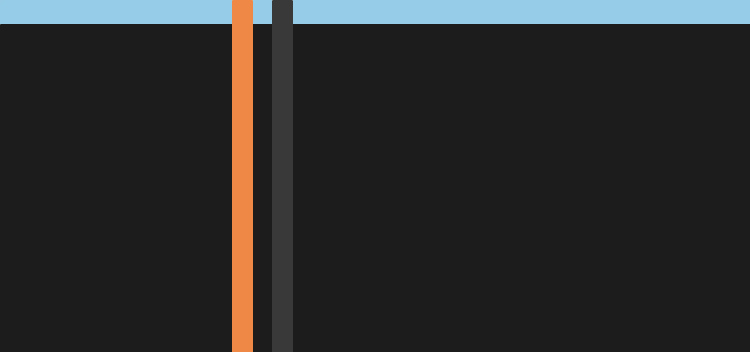
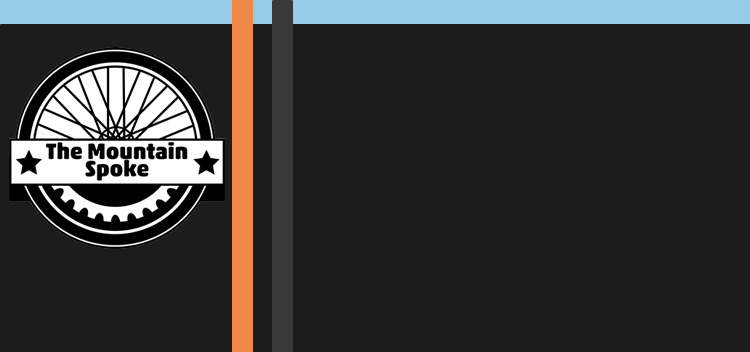
edits
lots of editing

Changed region(s): [[0.0, 0.125, 0.3067, 0.7188]]

diff --git a/home.html b/home.html
@@ -14,13 +14,19 @@
     <body>
         <header class="logoheader">
             <img src="images/LARGE-banner.jpg" alt="headerbanner"
-                 sizes="(max-width: 600px) 580px,
-                        (max-width: 800px) 750px,
-                        1200px"
                  srcset="images/SMALL-banner.jpg 580w,
                          images/MEDIUM-banner.jpg 750w,
-                         images/LARGE-banner.jpg 1000w"/>
-            <!-- <img id="logoHead" src="images/final-logo-01.png" alt="logo" /> -->
+                         images/LARGE-banner.jpg 1000w"
+                 sizes="(max-width: 580px) 540px,
+                        (max-width: 900px) 710px,
+                        1000px" />
+           <!-- <img id="logoHead" src="images/LOGO-300.png" alt="logo" 
+                 srcset="images/LOGO-100.png 100w,
+                         images/LOGO-200.png 200w,
+                         images/LOGO-300.png 300w"
+                 sizes="(max-width: 620px) 100px,
+                        (max-width: 790px) 200px,
+                        (max-width: 1400px) 300px" /> -->
             <ul id="businessHours" class="hide">
                 <li>Mon - Fri: 10 am - 7 pm</li>
                 <li>Sat: 10 am - 6 pm</li>
@@ -46,13 +52,19 @@
         <footer>
             
             <img src="images/LARGE-footer.jpg" alt="footerbanner"
-                 sizes="(max-width: 600px) 580px,
-                        (max-width: 800px) 750px,
-                        1200px"
                  srcset="images/SMALL-footer.jpg 580w,
                          images/MEDIUM-footer.jpg 750w,
-                         images/LARGE-footer.jpg 1000w">
-            <!-- <img id="logoFoot" src="images/final-logo-01.png" alt="logo" /> -->
+                         images/LARGE-footer.jpg 1000w"
+                 sizes="(max-width: 580px) 540px,
+                        (max-width: 900px) 710px,
+                        1000px" />
+           <!-- <img id="logoFoot" src="images/LOGO-300.png" alt="logo" 
+                 srcset="images/LOGO-100.png 100w,
+                         images/LOGO-200.png 200w,
+                         images/LOGO-300.png 300w"
+                 sizes="(max-width: 620px) 100px,
+                        (max-width: 790px) 200px,
+                        (max-width: 1400px) 300px" /> -->
         </footer>
     </body>
 </html>

diff --git a/css/small.css b/css/small.css
@@ -11,3 +11,7 @@ html { -webkit-text-size-adjust: none}
 
 /*-----------apply a natural box layout model to all elements -------------*/
 * { -moz-box-sizing: border-box; -webkit-box-sizing: border-box; box-sizing: border-box; }
+
+#logoHead, #logoFoot {
+    float: left;
+}
